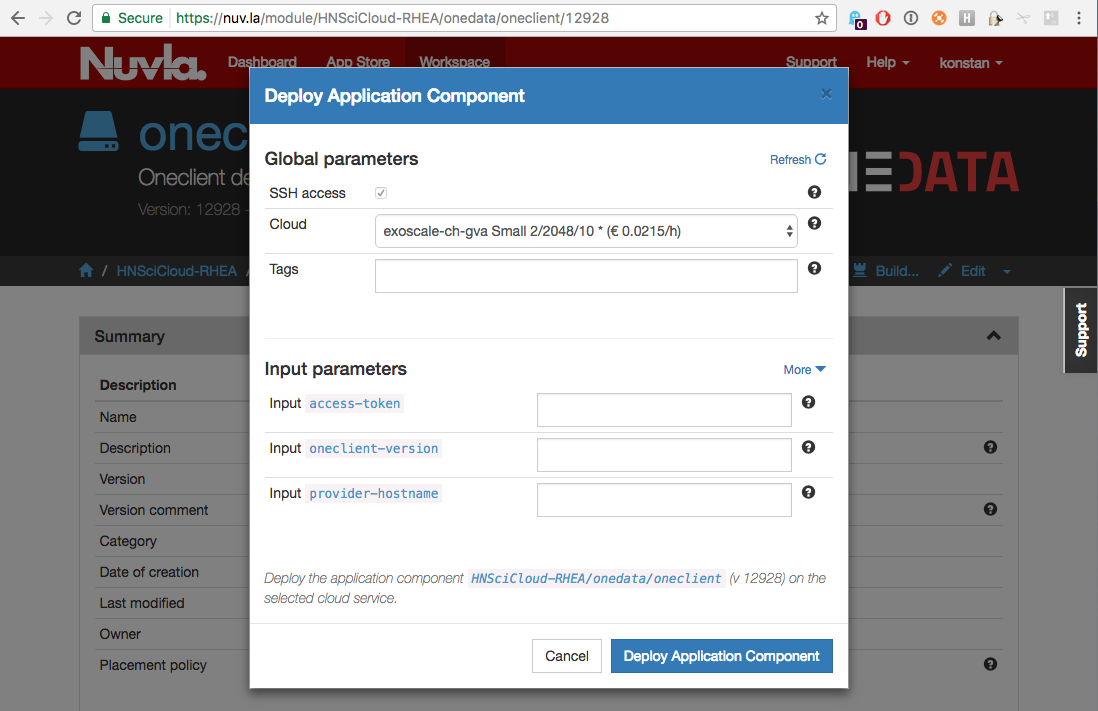
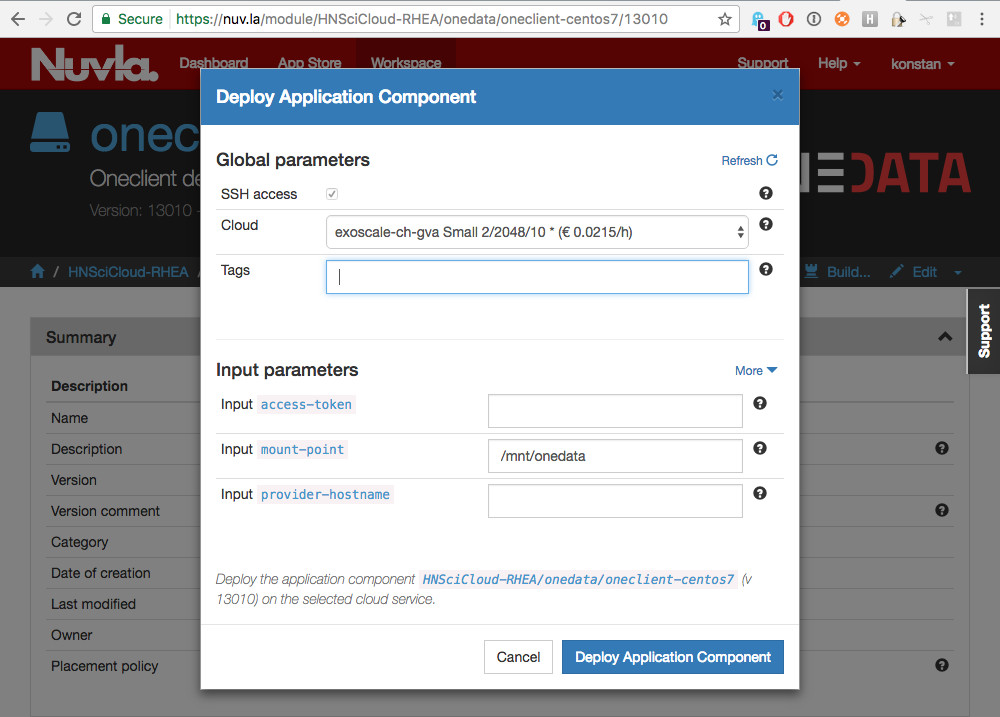
updated data access for containerless deployment of oneclient

diff --git a/docs/researcher/access-data.rst b/docs/researcher/access-data.rst
@@ -22,12 +22,12 @@ Users access their data on VMs using POSIX.  The data becomes available on the
 VMs via mounting the required data sources with the help of `Oneclient tool
 <https://onedata.org/#/home/documentation/doc/using_onedata/oneclient.html>`_.
 When deploying VMs via `Nuvla <https://nuv.la>`_ service, users should use or,
-when building their own components, inherit from `oneclient` component, which
-is available at https://nuv.la/module/HNSciCloud-RHEA/onedata/oneclient.
+when building their own components, inherit from `oneclient-<OS>` components,
+which are available at https://nuv.la/module/HNSciCloud-RHEA/onedata.
 
-At the moment, for oneclinet to mount the data volumes on VMs and enable POSIX
-access to the data, users need to provide it with a data access token and the
-Cloud local Oneprovider endpoint.
+At the moment, for `oneclinet` to mount the data volumes on VMs and enable
+POSIX access to the data, users need to provide it with a data access token and
+the Cloud local Oneprovider endpoint.
 
 Next versions of the platform will be extended to contain the auto-discovery of
 the Cloud local Oneprovider as well as auto-generation of the data access
@@ -64,20 +64,30 @@ the Cloud of your choice.
 Provision VM for data access
 ~~~~~~~~~~~~~~~~~~~~~~~~~~~~
 
-Go to https://nuv.la/module/HNSciCloud-RHEA/onedata/oneclient and click on
+Here it is explained on the example of CentOS 7 image.  Go to
+https://nuv.la/module/HNSciCloud-RHEA/onedata/oneclient-centos7 and click on
 `Deploy`.
 
 .. image:: images/oneclient-deploy.png
 
 Select the Cloud on which you want to deploy the client via `Cloud` drop-down.
-Provide **access-token** and **provider-hostname** parameters.  Leave
-**oneclient-version** blank.  Then, click `Deploy Application Compnent` button.
+Provide **access-token** and **provider-hostname** parameters.   Optionally
+change the default mount point of the spaces in **mount-point** parameter.
+Then, click `Deploy Application Compnent` button.
 
 Accessing data on VM
 --------------------
 
-After the VM with the data access client is deployed, users should be able to
-access their data via the predefined mount point on the VM.
+After the successful deployment, user should expect the spaces (supported by
+the selected provider) with the files available for POSIX access under
+**mount-point**.  Example ::
+
+    # ls -1 /mnt/onedata/
+    space-s3
+    space-gluster
+    # ls -1 /mnt/onedata/space-s3
+    test.txt
+    #
 
 External documentation
 ----------------------
